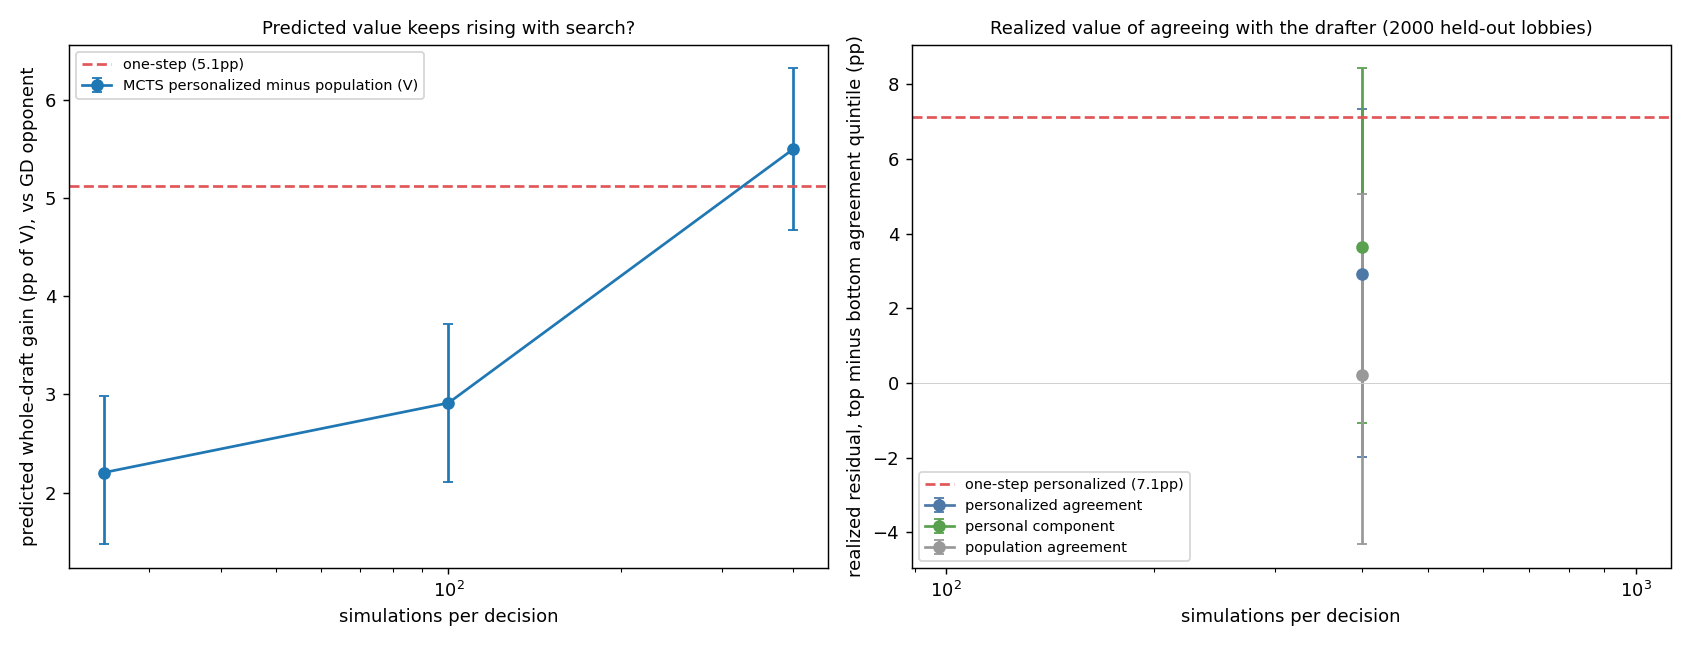
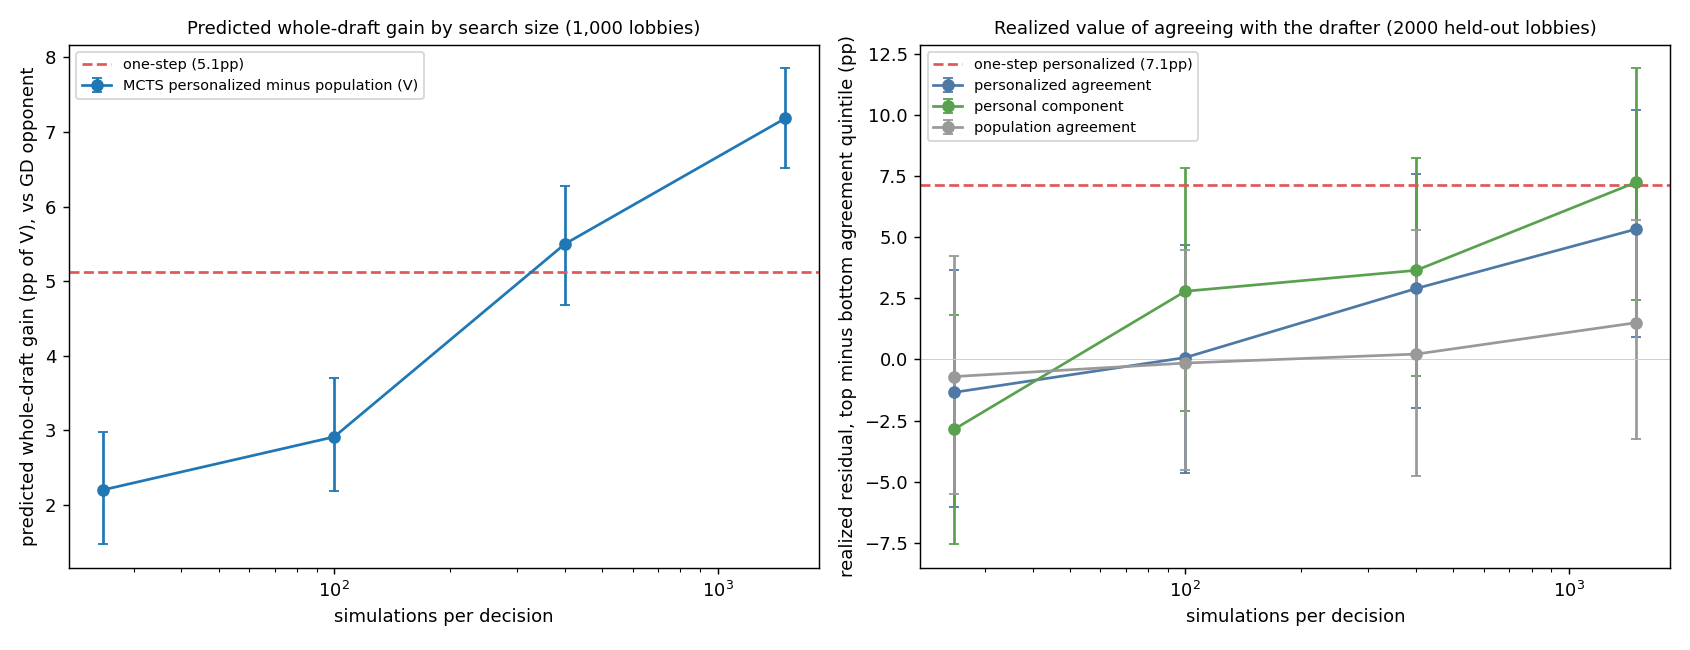
Personalized MCTS drafter: verified kernel copy, sims curve, emergent meta
Kernel matches a float64 reference to ~5e-7 and reproduces the population
kernel bitwise with personal terms zeroed. Deeper search keeps buying
realized agreement up to 1,500 sims.

Claude-Session: https://claude.ai/code/session_01PPmELPw7KEPSMU6fCCRRvK

diff --git a/training/personalization/p3_mcts_analyze.py b/training/personalization/p3_mcts_analyze.py
@@ -406,7 +406,7 @@ def main():
     axs[0].set_xscale("log")
     axs[0].set_xlabel("simulations per decision")
     axs[0].set_ylabel("predicted whole-draft gain (pp of V), vs GD opponent")
-    axs[0].set_title("Predicted value keeps rising with search?", fontsize=10)
+    axs[0].set_title("Predicted whole-draft gain by search size (1,000 lobbies)", fontsize=10)
     axs[0].legend(fontsize=8)
     xs = [s for s in LEVELS if "realized_top_minus_bottom_pp" in curve.get(f"MCTS {s}", {})]
     for key, lab, col in (("realized_top_minus_bottom_pp", "personalized agreement", "#4e79a7"),

diff --git a/training/personalization/results/P3_DRAFTER.md b/training/personalization/results/P3_DRAFTER.md
@@ -169,3 +169,125 @@ The imitation model also serves as the personalized opponent model in version (a
 - `p3_dr_imitation.py`: imitation model (`results/p3_dr_imitation.json`).
 - `p3_dr_drafter.py`: drafter runs, versions (a) and (b), real-state rankings and collapse contexts (`cache/dr_runs.pkl.gz`).
 - `p3_dr_analyze.py`: all tables above (`results/p3_dr_analyze.json`, `fig_dr_meta.png`, `fig_dr_collapse.png`).
+
+# Personalized MCTS (2026-09-30)
+
+## Kernel (`cuda_personal/`)
+
+**Where it lives.** A copy of the guarded overfit2026 kernel (`cuda_ofit`); `training/cuda_mcts` is untouched. `cuda_personal/ref/` is an unmodified copy of `cuda_ofit`, built under another module name as the reference. Built with nvcc 12.9 for sm_120. Source: `personal_kernel.cu` and `personal_bindings.cpp`.
+
+**What changed** (all per episode, so one launch serves up to 256 lobbies):
+
+- **Leaf value.** The base is the population WP (the 3 d2c_cumprev seeds as a mean-logit net per orientation, then swap-symmetrized, from our side). On the logit scale it adds b2·(S_our − S_opp) + b3·(O_our − O_opp), with S and O summed over the ten slots' per-hero skill and off-role tensors (10×90 each). Coefficients b1 = 1.0015, b2 = 3.709 and b3 = −0.052 come from the V1 combiner; b0 is set to 0 (fitted value 0.0013).
+- **Pick step to player.** The kernel uses Storm League order: bans 0,1,0,1; picks 0,1,1,0,0; bans 1,0; picks 1,1,0,0,1, with kernel team 0 picking first. Real lobbies where team 1 picked first are relabeled. The player at a pick step is the player who made that pick in the real draft (`draft_order`, the order fetched by `p3_fetch_pickorder.py`). Slots 0 to 4 are kernel team 0's players in pick order, and 5 to 9 are team 1's.
+- **Pools and bans.** Every pick is restricted to the acting slot's pool, falling back to any free hero if the pool is exhausted. Real bans are forced wherever the hero is still free: in the main draft, in the tree and in rollouts.
+- **Decide-only mode.** Replays a prefix of actions, then runs one search for the acting team and reports root visits and Q. This is used for the real-state and collapse checks.
+- **Self-play.** Every non-forced step is searched from the acting team's side.
+- **Imitation opponent** (main draft only): softmax(w0·log p_GD + personal bias of the acting slot).
+- **Capacity guard.** The tree-capacity guard (4,096 nodes, with a bound check before every expansion) is kept. MAX_OUR_TURNS is raised to 16 for self-play.
+
+**Verification** (`p3_mcts_verify.py`, `results/p3_mcts_verify.json`):
+
+- **Leaf values.** 300 real held-out drafts with realistic personal tensors (rows of the personal tables), random slot assignments and random perspective. Kernel vs a float64 Python mirror: population WP max |Δ| 5.2e-7 (mean 1.2e-7); personal value max |Δ| 5.8e-7 (mean 1.2e-7).
+- **Population identity.** With personal terms zeroed (b = 0, 1, 0, 0, no pools, no forced bans), and separately with personal valuation switched off, the kernel reproduces the reference population kernel exactly: 64 episodes each at 100 and 400 sims, with identical win probabilities (bitwise), final drafts and root visit distributions.
+- **Guard.** Nodes used peak at 1,218 (100 sims), 2,662 (400 sims) and 3,528 (1,000 sims), with no capacity hits. At 3,000 sims without pools the tree fills (4,034 nodes) and the guard blocks 798 expansions in 11 of 16 episodes. The runs below use at most 1,500 sims with pools.
+- **Ensembling.** The kernel's mean-logit ensemble and the one-step drafter's mean-probability ensemble differ by at most 0.0017 WP (mean 0.0001).
+
+## Protocol
+
+- **Search.** Search-only: the prior is the outcome-free behavioral-cloning policy distilled from GD (`overfit2026/models/bc_prior.pt`). The in-tree opponent and all rollouts use GD, one of the five paper-1 models per launch, cycled; paired personalized and population runs share the model and seed. The root pick is the argmax of visits, with c_puct 2.0 and no Dirichlet noise.
+- **Data.** Same lobbies, controlled teams and players as the one-step run: 1,000 full lobbies, 5,724 realized lobbies and 300 collapse players (30 new contexts each).
+- **Main level.** 400 sims per decision. The sims curve uses 25, 100, 400 and 1,500 sims. The realized curve is scored on the same 2,000-lobby subset (4,000 teams) at every level, together with the one-step drafter on that subset.
+- **Compute.** GPU 3, at most 2 of my processes, about 1.5 GPU-hours in total, on 2 host threads per process.
+
+## MCTS vs one-step vs population
+
+| metric | one-step personalized | MCTS personalized (400 sims) | MCTS population (400 sims) |
+|---|---|---|---|
+| picks that differ from the population drafter at the same state | 52% | 38% | |
+| when they differ: personal gain / population WP cost (pp) | +3.6 / −3.0 | +3.9 (3.7, 4.1) / −1.6 (−1.8, −1.4) | |
+| whole draft vs GD: gain in V over the population drafter | +5.1 (4.5, 5.9) | +5.5 (4.7, 6.4) | |
+| whole draft vs GD: change in WP_pop | −3.1 | −1.9 (−2.6, −1.2) | |
+| whole draft vs GD: mean V of the controlled team | 0.733 | 0.698 | 0.643 |
+| whole draft vs imitation opponent: gain in V / change in WP_pop | +5.8 / −3.2 | +7.3 (6.5, 8.1) / −0.5 (−1.2, 0.2) | |
+| realized: residual top minus bottom agreement quintile, all 11,448 teams | +7.6 (4.9, 10.5) | +4.7 (1.9, 7.7) | +2.1 (−0.6, 4.9) |
+| realized: personal component, top minus bottom | +9.6 (6.7, 12.4) | +5.2 (2.2, 7.9) | |
+| collapse: effective pool per player (median) | 10.7 | 8.9 | 9.9 |
+| collapse: share of picks on the player's top-3 heroes (mean) | 28% | 26% | 13% |
+| self-play: effective number of heroes (real 73.5) | 69.5 | 42.6 | 41.0 |
+| self-play: share of the 10 most-picked heroes (real 25.7%) | 30.7% | 47.9% | 49.2% |
+| self-play: correlation of hero shares with real drafts | 0.47 | 0.82 | 0.79 |
+| off-role picks, self-play (real 15.8%) | 17.2% | 18.3% | 32.0% |
+| off-role picks, vs GD (controlled team) | 26.0% | 26.3% | 32.7% |
+| real picks equal to the drafter's top-1 | 12.4% | 20.2% | 14.6% |
+| imitation top-1 equal to the drafter's top-1 | 14.2% | 30.7% | |
+
+The population one-step drafter's off-role rates are 34.3% (self-play) and 35.0% (vs GD); its realized agreement is +0.1pp.
+
+**Reading:**
+
+- **Cheaper personal gains.** MCTS changes fewer picks than one-step (38% vs 52%). The picks it changes buy the same personal gain at about half the population-WP cost (−1.6pp vs −3.0pp per pick; −1.9 vs −3.1 per draft). Search finds personal picks that also hold up in the draft.
+- **Stronger opponent-model effect.** Against the imitation opponent, the personalized MCTS drafter's predicted edge is +7.3pp at almost no WP cost.
+- **Off-role handling.** The same as one-step: about 18% of personalized picks go to off-role players, against 32 to 34% for population drafters and 16% in real drafts.
+- **No collapse** onto comfort heroes. The effective pool is 8.9 heroes (population MCTS 9.9, real play 11.3 at the same sample size), and only 26% of picks go to the player's top-3 heroes (43% in real play).
+
+## Emergent meta under MCTS
+
+Figure: `fig_mcts_meta.png`.
+
+- **Concentration.** With the behavioral prior and argmax at the root, MCTS self-play concentrates on the prior's favorite heroes far more than one-step search or real drafts. The effective number of heroes is 42.6 (personalized) and 41.0 (population), against 73.5 in real drafts. The top 10 heroes take 48 to 49% of picks. The leaders are Rehgar (6.8% personalized, 7.4% population, real 2.3%), Valla (6.7%), Johanna (6.4%), Anduin (5.2%), Muradin, Leoric, Falstad, Thrall, Auriel and Li-Ming.
+- **Role mix.** It is close to real: tanks 21%, bruisers 18%, healers 21%, ranged 33%, melee assassins 7%. Hero shares correlate 0.82 with real (one-step 0.47), because the prior is behavioral.
+- **Personalization widens the pool slightly** (42.6 vs 41.0 heroes) and moves the meta toward real play (correlation 0.82 vs 0.79).
+- **Risers under personalized MCTS:** Blaze (0.45% vs 0.16%), D.Va, Zagara, Orphea, Hanzo (1.48% vs 0.89%), Lúcio, Gall, Cho, Chen, Junkrat.
+- **Fallers:** Uther (0.13% vs 0.25%), Mephisto, Rexxar, Raynor, Tracer, Malfurion, Illidan (1.42% vs 1.75%), Samuro, Deathwing, Ragnaros.
+- **The one-step conclusion holds.** Knowing who plays lifts specialist and high-execution heroes (Hanzo, Chen, Cho and Gall, D.Va, Blaze) and trims generic picks.
+
+## Sims curve: does deeper search buy realized value or only predicted value?
+
+Figure: `fig_mcts_sims_curve.png`. All rows use the same 1,000 lobbies (predicted) and the same 2,000-lobby subset of 4,000 teams (realized).
+
+| search | predicted whole-draft gain in V vs GD (pp) | change in WP_pop (pp) | realized: personalized agreement Q5 − Q1 (pp) | realized: personal component Q5 − Q1 | realized: population agreement Q5 − Q1 |
+|---|---|---|---|---|---|
+| MCTS 25 sims | +2.2 (1.5, 3.0) | −0.6 | −1.3 (−6.0, 3.7) | −2.9 (−7.6, 1.8) | −0.7 |
+| MCTS 100 sims | +2.9 (2.2, 3.7) | −1.6 | +0.1 (−4.6, 4.7) | +2.8 (−2.1, 7.8) | −0.1 |
+| MCTS 400 sims | +5.5 (4.7, 6.3) | −1.9 | +2.9 (−2.0, 7.6) | +3.7 (−0.7, 8.2) | +0.2 |
+| MCTS 1,500 sims | +7.2 (6.5, 7.9) | −3.3 | +5.3 (0.9, 10.2) | +7.3 (2.4, 11.9) | +1.5 |
+| one-step (≈86 rollouts per decision) | +5.1 (4.5, 5.8) | −3.1 | +7.1 (2.4, 12.1) | | |
+
+Reading:
+
+- **Predicted gains rise steadily with search:** +2.2pp at 25 sims to +7.2pp at 1,500. MCTS passes one-step between 100 and 400 sims.
+- **Realized value rises too, with no sign of overfitting yet** over this range. The personalized-agreement signal climbs from about 0 at 25 to 100 sims to +5.3pp at 1,500, and the personal component from −2.9 to +7.3.
+  - At low sims the root visit ranking is mostly the behavioral prior, so agreeing with it says little about outcomes.
+  - As search deepens, the ranking follows the personal value and its realized signal approaches the one-step drafter's (+7.1pp on the same teams).
+- **MCTS has not yet exceeded one-step on realized value**, even at 1,500 sims. The confidence intervals are wide (±5pp) and overlap fully.
+- **Paper 1's warning applies to the predicted column.** Predicted gains outrun realized ones: MCTS at 1,500 sims claims +7.2pp against one-step's +5.1pp, while its realized signal is if anything lower. More sims beyond 1,500 would need a larger tree (the 4,096-node guard starts to bind around 2,000 to 3,000 sims) and a larger realized sample to separate the curves.
+
+## Imitation vs outcome under MCTS
+
+At the real states (57,240 real picks), the personalized MCTS top-1 matches the real pick 20% of the time (one-step 12%) and matches the imitation model's top-1 31% of the time (one-step 14%). The behavioral prior pulls search toward what players usually pick.
+
+Team residual by which system the real pick matched:
+
+| the real pick matched | picks | residual (pp) |
+|---|---|---|
+| both | 7,228 | +2.4 (1.3, 3.5) |
+| imitation only | 11,877 | +1.7 (0.8, 2.5) |
+| personalized MCTS only | 4,329 | −0.3 (−1.7, 1.2) |
+| neither | 33,806 | −1.1 (−1.6, −0.5) |
+
+Under MCTS, the picks where the outcome-based drafter departs from the imitation model do not win more than expected. For one-step the same class was +1.8 (0.2, 3.4). The extra agreement MCTS gets from the behavioral prior shifts its distinct picks toward cases with little realized value.
+
+## Stretch: player-conditioned policy trained by self-play (not started; cost estimate)
+
+- **Kernel work.** The policy backbone takes a fixed 290-d state, and the acting slot's personal vector would have to enter it. Threading that input through the backbone and every expansion and re-verifying is a new kernel variant, about one working day.
+- **Self-play data.** Measured throughput is about 100 searched decisions per second at 400 sims on the shared GPU 3. That makes about 5.5 GPU-hours per 200K self-play drafts, and paper-1-style training needs many iterations: several GPU-days under the 2-process cap.
+- **Cheaper alternative.** Distill the root visit distributions already produced here into a player-conditioned policy by supervised learning, about one GPU-hour. It would serve as a better prior than the behavioral one (the low-sims curve shows the prior dominates below about 400 sims), but it would not test self-play training. Awaiting a decision before either is started.
+
+## Files (training/personalization/)
+
+- `cuda_personal/`: `personal_kernel.cu`, `personal_bindings.cpp`, `setup.py`, and `ref/` (the unmodified reference kernel).
+- `p3_mcts_core.py`: host side, draft-order and slot conventions, the Python leaf mirror.
+- `p3_mcts_verify.py`: verification (`results/p3_mcts_verify.json`).
+- `p3_mcts_drafter.py`: stages full, curve, real and collapse (`cache/mcts_*_s*.pkl.gz`, logs `results/p3_mcts_*_s*.txt`).
+- `p3_mcts_analyze.py`: all MCTS tables (`results/p3_mcts_analyze.json`, `fig_mcts_sims_curve.png`, `fig_mcts_meta.png`).
